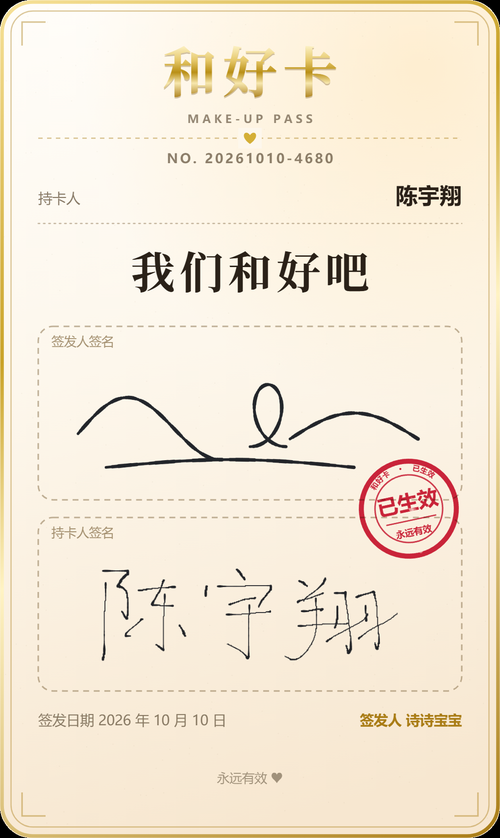
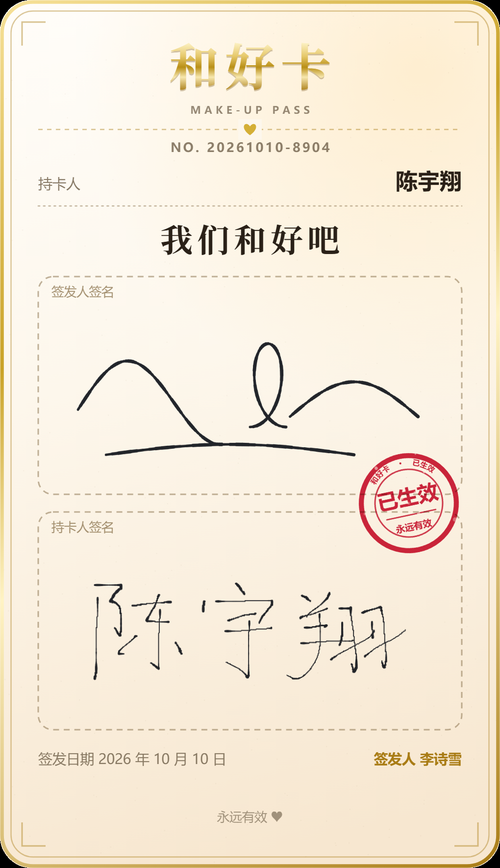
feat: 签名区放大（308x100 -> 332x144）；名字改用真名李诗雪；卡片双签名栏加高

diff --git a/src/cardSpec.ts b/src/cardSpec.ts
@@ -5,9 +5,9 @@
  * 尺寸 / 坐标 / 文案，因此屏幕上看到的卡面和最终保存的图片始终是同一套版式。
  */
 
-/** 设计尺寸：卡面按 340 × 570 设计，再整体等比缩放到容器宽度 */
+/** 设计尺寸：卡面按 340 × 590 设计，再整体等比缩放到容器宽度 */
 export const CARD_W = 340
-export const CARD_H = 570
+export const CARD_H = 590
 
 /** 持卡人：收下这张卡的人（卡片「持卡人」一栏） */
 export const HOLDER_NAME = '陈宇翔'
@@ -19,11 +19,8 @@ export const HOLDER_NAME = '陈宇翔'
  */
 export const HOLDER_ANSWERS = ['陈宇翔', '宇翔']
 
-/** 签发人昵称：签这张卡送出去的人（卡片、页头都用这个） */
-export const ISSUER_NAME = '诗诗宝宝'
-
-/** 签发人全名（只出现在页脚） */
-export const ISSUER_FULL_NAME = '李诗雪'
+/** 签发人：签这张卡送出去的人（卡片、页头都用这个） */
+export const ISSUER_NAME = '李诗雪'
 
 export const CARD_TITLE = '和好卡'
 export const CARD_SUBTITLE = 'MAKE-UP PASS'
@@ -53,44 +50,44 @@ export const PALETTE = {
 export const LAYOUT = {
   pad: 26,
 
-  titleTop: 30,
-  titleSize: 37,
+  titleTop: 28,
+  titleSize: 34,
 
-  subtitleTop: 78,
-  subtitleSize: 7.5,
+  subtitleTop: 72,
+  subtitleSize: 7,
 
-  ruleY: 94,
+  ruleY: 88,
 
-  serialTop: 104,
-  serialSize: 9,
+  serialTop: 97,
+  serialSize: 8.5,
 
-  holderTop: 128,
+  holderTop: 118,
   holderLabelSize: 9.5,
   holderSize: 15,
-  holderRuleY: 152,
+  holderRuleY: 140,
 
   /** 「我们和好吧」 */
-  messageTop: 170,
-  messageSize: 30,
+  messageTop: 152,
+  messageSize: 22,
 
-  /** 签名栏一：签发人（她现场手写） */
-  sigIssuer: { x: 26, y: 222, w: 288, h: 118 },
-  inkIssuer: { x: 34, y: 244, w: 272, h: 88 },
+  /** 签名栏一：签发人（她现场手写）—— 留得比原来高，手机上更好写 */
+  sigIssuer: { x: 26, y: 188, w: 288, h: 148 },
+  inkIssuer: { x: 34, y: 210, w: 272, h: 118 },
 
   /** 签名栏二：持卡人（预先印上去的签名） */
-  sigHolder: { x: 26, y: 352, w: 288, h: 118 },
-  inkHolder: { x: 34, y: 374, w: 272, h: 88 },
+  sigHolder: { x: 26, y: 348, w: 288, h: 148 },
+  inkHolder: { x: 34, y: 370, w: 272, h: 118 },
 
   sigLabelSize: 8.5,
 
-  metaTop: 486,
+  metaTop: 512,
   metaSize: 9.5,
 
-  footTop: 526,
+  footTop: 552,
   footSize: 8.5,
 
   /** 红色印章：圆心 / 半径 / 旋转角度（正好盖在两个签名栏的交界处） */
-  stamp: { cx: 278, cy: 346, r: 34, rotate: -12 }
+  stamp: { cx: 278, cy: 342, r: 34, rotate: -12 }
 } as const
 
 /** 签名板宽高比，必须与 LAYOUT.inkIssuer 一致，否则笔迹会被拉伸 */

diff --git a/src/App.vue b/src/App.vue
@@ -5,7 +5,7 @@ import StageCard from './components/StageCard.vue'
 import StageLock from './components/StageLock.vue'
 import StageSuccess from './components/StageSuccess.vue'
 import { useConfetti } from './composables/useConfetti'
-import { formatDateCN, HOLDER_NAME, ISSUER_FULL_NAME, ISSUER_NAME, makeSerial } from './cardSpec'
+import { formatDateCN, HOLDER_NAME, ISSUER_NAME, makeSerial } from './cardSpec'
 
 type Stage = 'locked' | 'card' | 'done'
 
@@ -124,7 +124,7 @@ onBeforeUnmount(() => {
     </main>
 
     <footer class="app-footer">
-      <p>签发人 {{ ISSUER_FULL_NAME }} · 持卡人 {{ HOLDER_NAME }}</p>
+      <p>签发人 {{ ISSUER_NAME }} · 持卡人 {{ HOLDER_NAME }}</p>
     </footer>
 
     <canvas ref="confettiCanvas" class="confetti-layer" aria-hidden="true" />

diff --git a/src/components/StageCard.vue b/src/components/StageCard.vue
@@ -6,6 +6,7 @@ import MakeUpCard from './MakeUpCard.vue'
 import SignaturePad from './SignaturePad.vue'
 import { renderCard } from '../composables/useCardRenderer'
 import { loadHolderSignature } from '../composables/useHolderSignature'
+import { CARD_H, CARD_W } from '../cardSpec'
 
 const props = withDefaults(defineProps<{ serial: string; issuedAt: string; demo?: number }>(), {
   demo: 0
@@ -80,7 +81,7 @@ async function confirmSign() {
 
 <template>
   <section class="stage">
-    <div class="card-slot">
+    <div class="card-slot" :style="{ aspectRatio: `${CARD_W} / ${CARD_H}` }">
       <FlipCard :flipped="flipped">
         <template #back><LockedCard /></template>
         <template #front><MakeUpCard :serial="serial" :issued-at="issuedAt" /></template>

diff --git a/src/style.css b/src/style.css
@@ -265,8 +265,7 @@ button {
   width: 100%;
   max-width: 340px;
   margin: 0 auto;
-  /* 锁定卡没有 JS 缩容器，用宽高比撑出高度；与 FlipCard 的 340×540 一致 */
-  aspect-ratio: 340 / 540;
+  /* 高度比例由组件用 CARD_W / CARD_H 内联绑定，避免和 cardSpec.ts 脱节 */
 }
 
 /* ---------------------------------------------------------------- 3D 翻转 */
@@ -853,9 +852,10 @@ button {
 
 .pad-panel {
   width: 100%;
-  max-width: 340px;
+  /* 手机上尽量占满宽度，签名区更大更好写 */
+  max-width: 420px;
   margin: 18px auto 0;
-  padding: 16px 16px 18px;
+  padding: 16px 12px 18px;
   border-radius: 20px;
   border: 1px solid rgba(255, 255, 255, 0.14);
   background: rgba(255, 255, 255, 0.06);

diff --git a/src/components/StageLock.vue b/src/components/StageLock.vue
@@ -1,5 +1,6 @@
 <script setup lang="ts">
 import { onBeforeUnmount, onMounted, ref } from 'vue'
+import { CARD_H, CARD_W } from '../cardSpec'
 import LockedCard from './LockedCard.vue'
 import VerifyDialog from './VerifyDialog.vue'
 
@@ -29,7 +30,7 @@ function onPass() {
 
 <template>
   <section class="stage">
-    <div class="card-slot">
+    <div class="card-slot" :style="{ aspectRatio: `${CARD_W} / ${CARD_H}` }">
       <LockedCard />
     </div>
 
